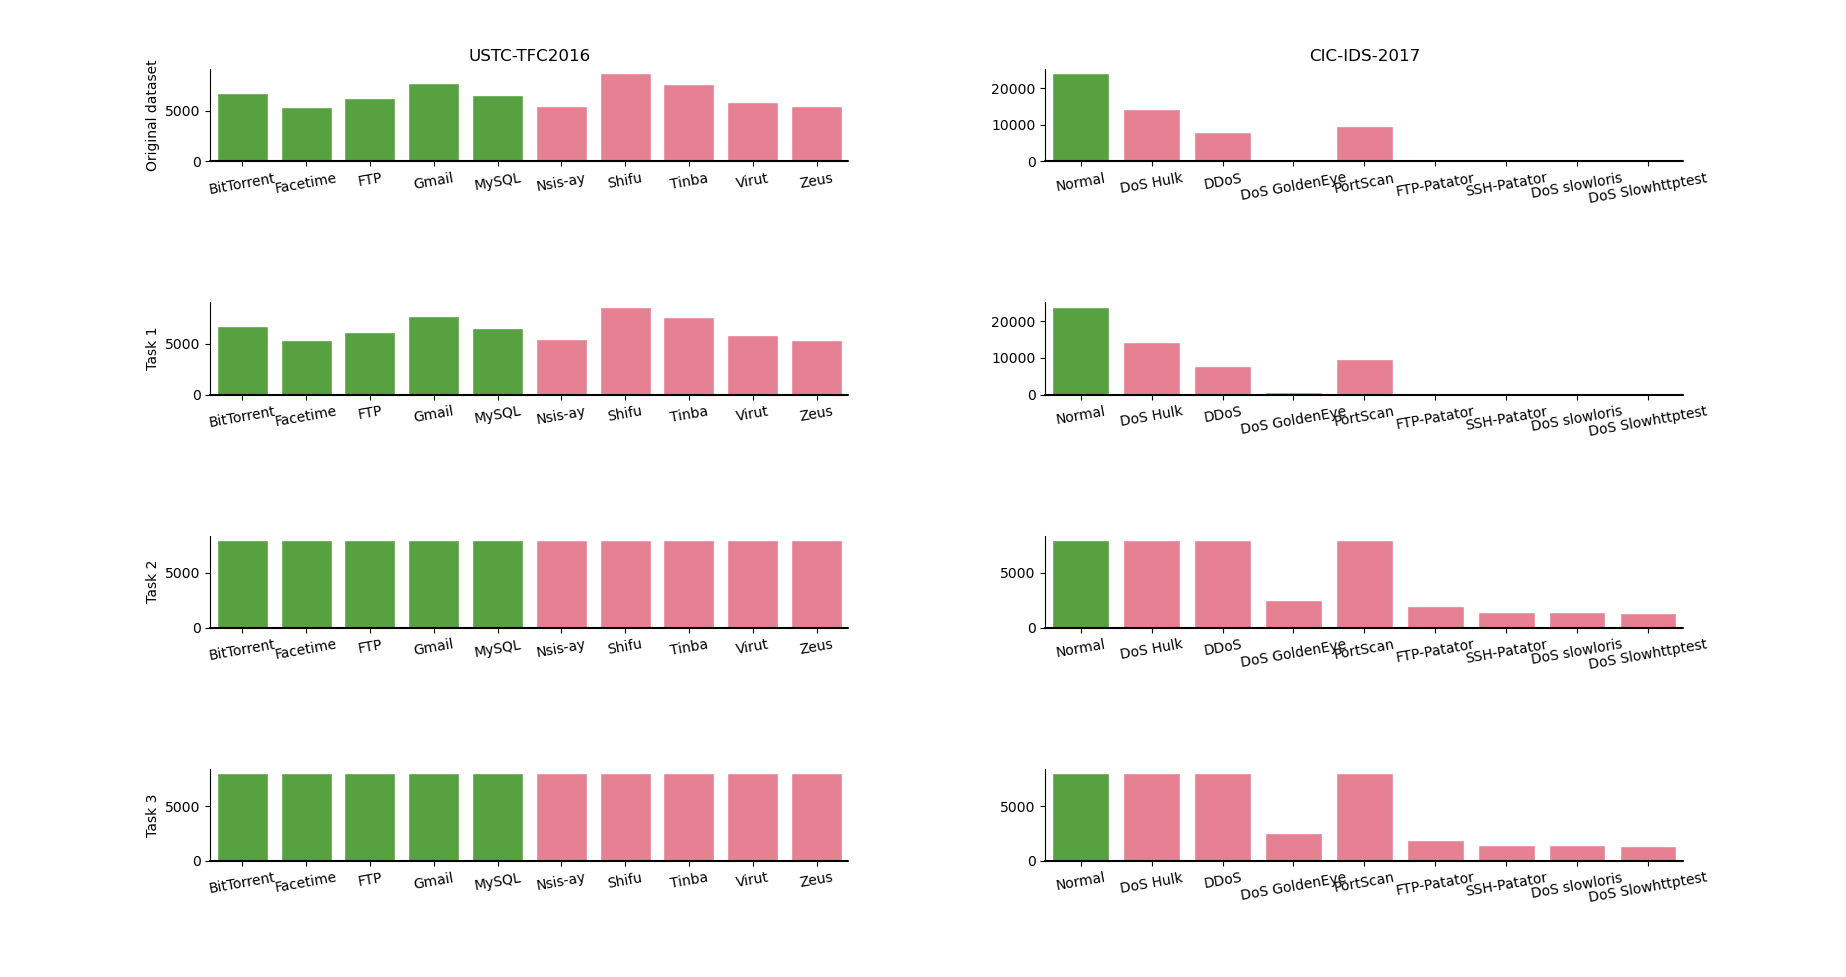
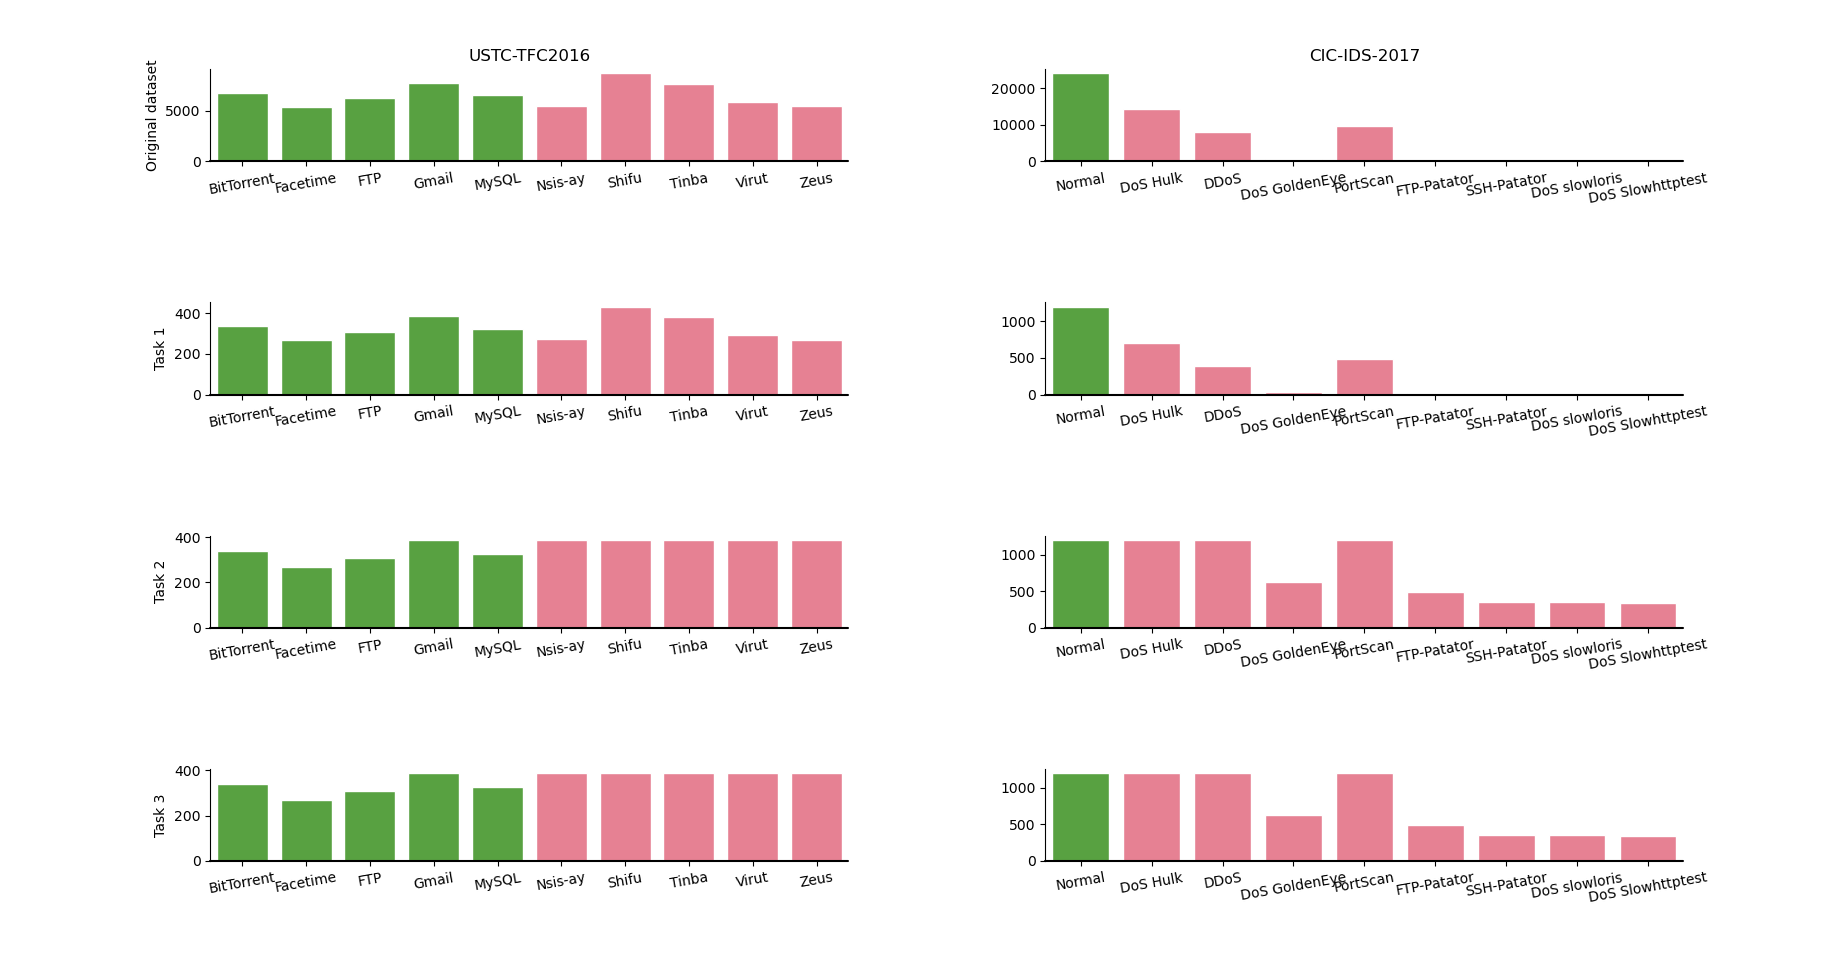
load less learning examples normal traffic first task

diff --git a/data/load_data.py b/data/load_data.py
@@ -27,14 +27,17 @@ class BaseDataset(torch.utils.data.Dataset):
         return x, y
 
 
-def get_datasets(dataset_name, seed):
+def get_datasets(dataset_name, n_experiences):
     train_datasets = []
     test_datasets = []
 
     train_images, train_labels, test_images, test_labels = read_data(dataset_name)
+    num_classes = len(np.unique(train_labels))
+    train_images, train_labels = select_data(train_images, train_labels, num_classes, n_experiences)
+    test_images, test_labels = select_data(test_images, test_labels, num_classes, n_experiences)
+
     train_dataset = BaseDataset(train_images, train_labels)
     test_dataset = BaseDataset(test_images, test_labels)
-    num_classes = len(np.unique(train_labels))
 
     train_datasets.append(train_dataset)
     test_datasets.append(test_dataset)
@@ -52,8 +55,8 @@ def read_data(dataset_name):
     test_labels = torch.LongTensor(test_labels)
 
     train_transforms, test_transform = get_transform(dataset_name)
-    train_images = [train_transforms(img) for img in train_images]
-    test_images = [test_transform(img) for img in test_images]
+    train_images = torch.stack([train_transforms(img) for img in train_images])
+    test_images = torch.stack([test_transform(img) for img in test_images])
 
     return train_images, train_labels, test_images, test_labels
 
@@ -86,6 +89,23 @@ def get_transform(dataset_name):
             transforms.Lambda(lambda x: x.repeat(3, 1, 1))
         ])
     return train_transforms, test_transforms
+
+
+def select_data(images, labels, num_classes, n_experiences):
+    new_images = []
+    new_labels = []
+    for i in range(num_classes):
+        indicies = torch.argwhere(labels == i).flatten()
+        fold_size = len(indicies) // n_experiences
+        shuffle_idx = torch.randperm(len(indicies))
+        indicies = indicies[shuffle_idx]
+        idx = indicies[:fold_size]
+        new_images.append(images[idx])
+        new_labels.append(labels[idx])
+
+    new_images = torch.cat(new_images, dim=0)
+    new_labels = torch.cat(new_labels, dim=0)
+    return new_images, new_labels
 
 
 def get_benchmark(train_datasets, test_datasets, seed):

diff --git a/adversarial.py b/adversarial.py
@@ -61,7 +61,7 @@ class AdversarialExamplesGenerator:
         return_images = []
         return_labels = []
         images, labels = shuffle(images, labels)
-        images = torch.stack(images).cuda()
+        images = images.cuda()
         labels = torch.LongTensor(labels).cuda()
         model.eval()
         fmodel = PyTorchModel(model, bounds=(-1, 1))
@@ -78,9 +78,9 @@ class AdversarialExamplesGenerator:
                 shuffle_idx = torch.randperm(len(indicies))
                 indicies = indicies[shuffle_idx]
                 indicies = indicies[:self.max_examples_per_epsilon]
-                target_labels = np.random.choice(self.normal_trafic_classes, min(self.max_examples_per_epsilon, len(indicies))).tolist()
-                target_labels = torch.LongTensor(target_labels).cuda()
-                criterion = TargetedMisclassification(target_labels)
+                new_labels = np.random.choice(self.normal_trafic_classes, min(self.max_examples_per_epsilon, len(indicies))).tolist()
+                new_labels = torch.LongTensor(new_labels).cuda()
+                criterion = TargetedMisclassification(new_labels)
                 selected_images = images[indicies]
                 _, adversarial_examples, _ = attack(fmodel, selected_images, criterion, epsilons=self.epsilons)
                 adversarial_examples = torch.cat(adversarial_examples, dim=0)

diff --git a/utils/dataset_plots.py b/utils/dataset_plots.py
@@ -55,7 +55,7 @@ def main():
 
 
 def plot_tasks(axes, axis_idx, dataset_name, y_label=False):
-    train_datasets, test_datasets, classes_per_task = data.get_datasets(dataset_name, seed=42)
+    train_datasets, test_datasets, classes_per_task = data.get_datasets(dataset_name, 20)
     train_stream, _ = data.get_benchmark(train_datasets, test_datasets, seed=42)
     model = torchvision.models.resnet.resnet18(num_classes=classes_per_task, pretrained=False)
     adversarial_examples = adversarial.AdversarialExamplesGenerator(20, classes_per_task, 'same', dataset_name, seed=42)

diff --git a/main.py b/main.py
@@ -17,7 +17,7 @@ def main():
     seed_everything(args.seed)
 
     device = torch.device(args.device)
-    train_datasets, test_datasets, classes_per_task = data.get_datasets(args.dataset, args.seed)
+    train_datasets, test_datasets, classes_per_task = data.get_datasets(args.dataset, args.n_experiences)
     train_stream, test_stream = data.get_benchmark(train_datasets, test_datasets, args.seed)
 
     num_classes = classes_per_task if args.training_mode == 'domain_incremental' else classes_per_task * args.n_experiences
